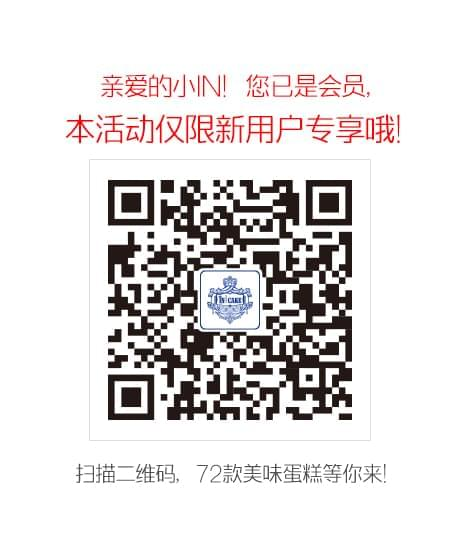
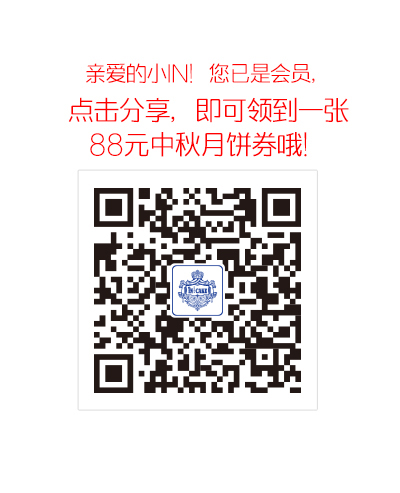
中秋月饼分享送券活动

Changed region(s): [[0.12, 0.1217, 0.87, 0.8215], [0.42, 0.8519, 0.84, 0.9128], [0.15, 0.8519, 0.39, 0.9128]]

diff --git a/js/mid-autumn-88.js b/js/mid-autumn-88.js
@@ -2,44 +2,66 @@
 
     $(function() {
 
-        fnRegister();
-
-        // 注册按钮点击事件
-        function fnRegister(){
-            var $oMaskResult = $('#mask-result'),
-                $oMaskClose = $oMaskResult.find('.btn-result-close'),
-                $oResultOk = $oMaskResult.find('.result-ok'),
-                $oResultFail = $oMaskResult.find('.result-fail'),
-                $oBtnRegister = $('#btn-register');
-
-            $oBtnRegister.on('click', function(event) {
-                event.preventDefault();
-                /* Act on the event */
-
-                // TODO 处理新老用户检测及登录注册逻辑
-
-                var isUserExists = false;   // 用户是否存在 存在：true，不存在：false
-
-                if (isUserExists) {
-                    $oResultFail.show(function(){
-                        $oMaskResult.show();
-                    });
-                }else{
-                    $oResultOk.show(function(){
-                        $oMaskResult.show();
-                    });
-                }
-            });
-
-            $oMaskClose.on('click', function(event) {
-                event.preventDefault();
-                /* Act on the event */
-                $oMaskResult.find('.result-info').hide(function(){
-                    $oMaskResult.hide();
-                });
-            });
-        }
+		fnRegister();
 
     });
+    
+    // 注册按钮点击事件
+    function fnRegister(){
+        var $oMaskResult = $('#mask-result'),
+            $oResultOk = $oMaskResult.find('.result-ok'),
+            $oResultFail = $oMaskResult.find('.result-fail'),
+            $oResultRepeat = $oMaskResult.find('.result-repeat'),
+            $oMaskShare = $oMaskResult.find('.share'),
+            $oBtnRegister = $('#btn-register'),
+            $oBtnShare = $oMaskResult.find('.btn-share'),
+            $oBtnSelect = $oMaskResult.find('.btn-select'),
+            $oBtnClose = $oMaskResult.find('.btn-result-close');
+
+        $oBtnRegister.on('click', function(event) {
+            event.preventDefault();
+            /* Act on the event */
+
+            // TODO 处理新老用户检测及登录注册逻辑
+			var isCouponExists = false,   // 用户是否已领券 是:true, 否：false
+            	isUserExists = false;   // 用户是否存在 存在：true，不存在：false
+            
+            if(isCouponExists){
+        		$oResultRepeat.show(function(){
+        			$oBtnShare.hide();
+        			$oBtnSelect.show();
+        			$oMaskResult.show();
+        		});
+        	}else{
+				if (isUserExists) {
+					$oResultFail.show(function(){
+                        $oMaskResult.show();
+                    });
+				}else{
+                    $oResultOk.show(function(){
+                    	$oMaskResult.show();
+                	});
+                }
+            }
+            
+        });
+
+        $oBtnClose.on('click', function(event) {
+            event.preventDefault();
+            /* Act on the event */
+            $oMaskResult.find('.result-info').hide(function(){
+                $oMaskResult.hide();
+            });
+        });
+        
+        $oBtnShare.on('click', function(event) {
+            event.preventDefault();
+            /* Act on the event */
+            $oMaskResult.find('.result-info').hide(function(){
+            	$oBtnShare.hide();
+            	$oMaskShare.show();
+            });
+        });
+    }
 
 })();

diff --git a/css/mid-autumn-88.css b/css/mid-autumn-88.css
@@ -9,9 +9,14 @@
 #mask-result { display: none; width: 100%; height: 100%; background: rgba(0, 0, 0, 0.5); position: fixed; top: 0; left: 0; z-index: 999; }
 #mask-result img { width: 100%; }
 #mask-result .result { width: 73.4375%; max-width: 500px; background: #fff; margin: auto; position: absolute; top: 50%; left: 0; right: 0; z-index: 9999; overflow: hidden; -webkit-transform: translateY(-50%); transform: translateY(-50%); }
-#mask-result .result .btn-result-close { display: block; position: absolute; top: 5%; right: 5%; width: 10.6%; }
+#mask-result .result .btn-result-close { display: block; position: absolute; top: 4%; right: 5%; width: 10.6%; }
 #mask-result .result .result-content { width: 100%; }
-#mask-result .result .result-content .result-info { display: none; width: 100%; }
+#mask-result .result .result-content .result-info,
+#mask-result .share { display: none; width: 100%; }
+#mask-result .result .result-content .result-repeat { width: 60%; padding: 50px 0 60px; margin: 0 auto; font-size: 16px; line-height: 26px; text-align: center; color:#e60012; }
+#mask-result .result .btn-share,
+#mask-result .result .btn-select { display: block; position: absolute; bottom: 4%; left: 30%; width: 40%; border-radius: 6px; font-size: 14px; line-height: 30px; color: #fff; background-color:#e60012; text-align: center; }
+#mask-result .result .btn-select { display: none; bottom: 6%; }
 
 @-webkit-keyframes smooth {
 	0% { -webkit-transform: scale(1); }

diff --git a/register-mid-autumn-88.html b/register-mid-autumn-88.html
@@ -61,7 +61,13 @@
 	                    <div class="result-info result-fail">
 	                        <img src="img/mid-autumn-88/result_fail.jpg" alt="">
 	                    </div>
+	                    <div class="result-info result-repeat">亲，券已领取过了哦，快去看看吧！</div>
 	                </div>
+	                <a href="javascript:;" class="btn-share">点击分享</a>
+	                <a href="javascript:;" class="btn-select">确&nbsp;定</a>
+	            </div>
+	            <div class="share">
+	            	<img src="img/mid-autumn-88/share_text.png" alt=""/>
 	            </div>
 	        </div>
 	        <!-- 注册结果 end -->
